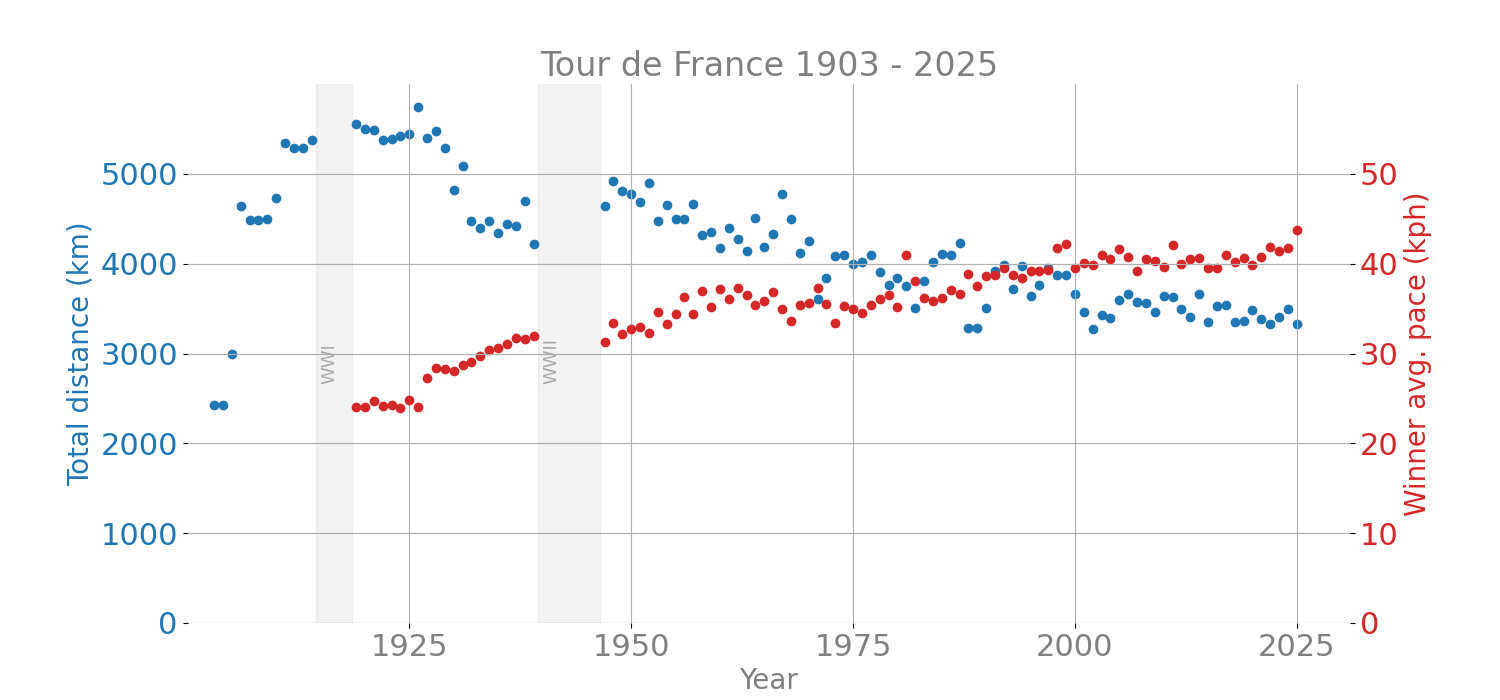
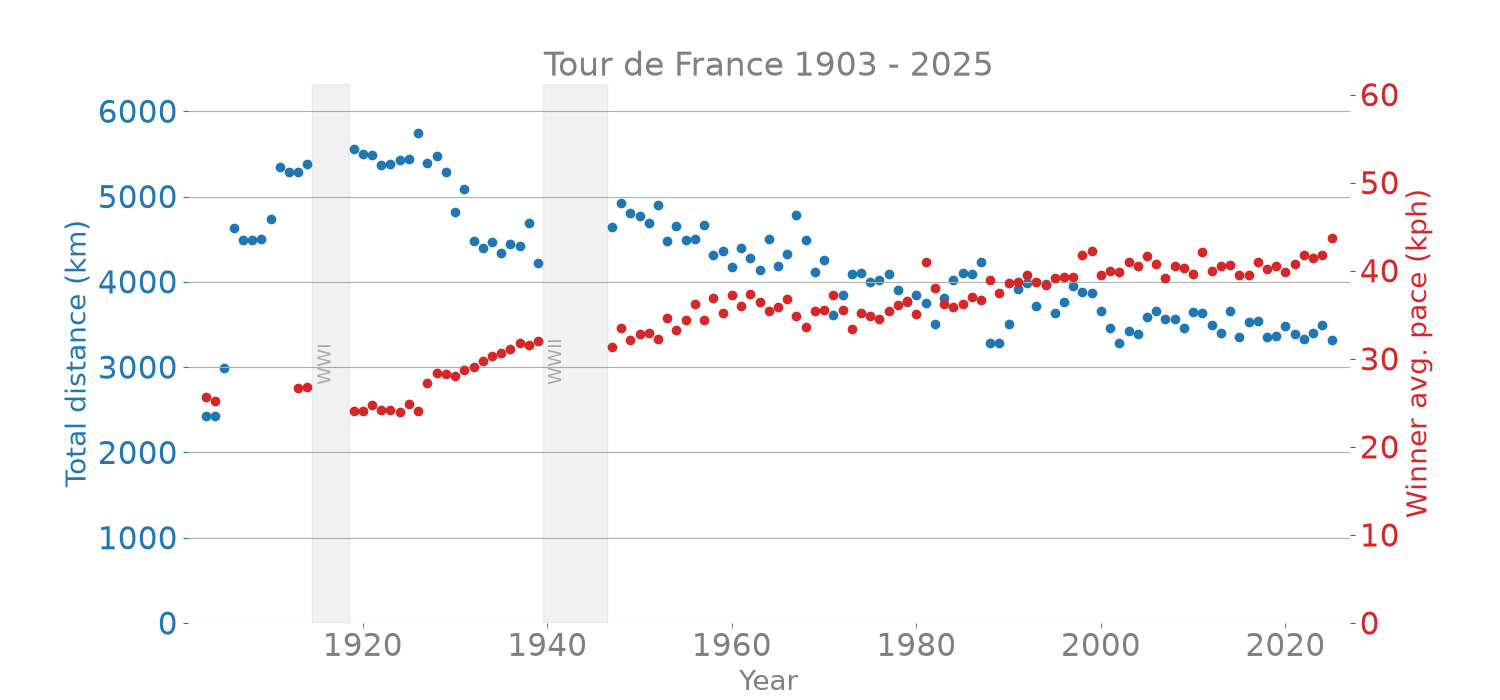
Fix Visualizer: correct women's title, robust series alignment, no inf paces
- The plot title, axis limits, and era shading were hardcoded for the
  men's race: the women's plot was titled 'Tour de France 1903 - ...'
  with 1900-2030 axis limits around four data points. Title and limits
  now derive from the data (generate_plots passes an explicit
  'Tour de France Femmes' title), and the WWI/WWII bands only render
  when they fall inside the plotted range.
- Winner pace was groupby().first() on a frame assumed pre-sorted,
  plotted against Year.unique() in appearance order — two orderings
  that only aligned by luck. Both series are now Year-indexed and
  plotted against their own index.
- Pace is masked where TotalSeconds <= 0 (points-era and no-result
  editions) instead of blanket-masking everything before 1915; the
  valid 1903-04 and 1913-14 paces now appear.
- No longer mutates the caller's dataframe or global rcParams; the
  figure is closed after saving; the stale 'data/...' default save
  path is gone (saveas is required). ty now passes on all of src/,
  so it is re-enabled in 'make lint'.
- Regenerated both PNGs (men's now includes 2025; women's now shows
  its real year range and the official 2025 pace).

diff --git a/src/letourdataset/visualizer.py b/src/letourdataset/visualizer.py
@@ -1,62 +1,86 @@
-import matplotlib
 import matplotlib.pyplot as plt
 import pandas as pd
 
+DISTANCE_COLOR = "tab:blue"
+PACE_COLOR = "tab:red"
+WAR_PERIODS = ((1914.5, 1918.5, "WWI"), (1939.5, 1946.5, "WWII"))
+
 
 class Visualizer:
-    def __init__(self) -> None:
-        pass
+    def plot(self, df: pd.DataFrame, saveas: str, title: str | None = None) -> None:
+        """Plot the total distance and the winner's average pace per year.
 
-    def plot(self, df: pd.DataFrame, saveas="data/TDF_Distance_And_Pace.png") -> None:
-        last_year = 2030
+        Args:
+            df: A riders-history dataframe (one row per rider and year).
+            saveas: Path of the PNG file to write.
+            title: Plot title; derived from the year range if omitted.
+        """
+        data = df.copy()
+        data["Rank"] = pd.to_numeric(data["Rank"], errors="coerce")
+        # Pace is undefined for editions without recorded times
+        # (ResultType 'points' / 'no-results' have TotalSeconds == 0).
+        data["PersonalAvgPace"] = (
+            data["Distance (km)"] / (data["TotalSeconds"] / 3600)
+        ).mask(data["TotalSeconds"] <= 0)
 
-        year = df["Year"].unique()
-        distance = df.groupby("Year")["Distance (km)"].mean(numeric_only=True).values
-        df["PersonalAvgPace"] = df["Distance (km)"] / (df["TotalSeconds"] / 3600)
-        df.loc[df["Year"] < 1915, "PersonalAvgPace"] = pd.NA
-        winnerpace = df.groupby("Year").first()["PersonalAvgPace"]
-
-        matplotlib.rcParams.update({"font.size": 22})
-        _, ax = plt.subplots(1, 1, figsize=(15, 7))
-        ax.scatter(year, distance)  # type:ignore
-
-        ax.set_title(
-            f"Tour de France 1903 - {df['Year'].max()}", fontsize=24, color="gray"
+        distance = data.groupby("Year")["Distance (km)"].mean().sort_index()
+        winners = (
+            data.dropna(subset=["Rank"])
+            .sort_values("Rank", kind="stable")
+            .groupby("Year")
+            .head(1)
         )
+        winner_pace = winners.set_index("Year")["PersonalAvgPace"].sort_index()
 
-        ax.set_xlabel("Year", fontsize=20, color="gray")
-        ax.set_xlim(1900, last_year + 1)
-        ax.set_xticks([1925, 1950, 1975, 2000, 2025])
-        ax.set_xticklabels([1925, 1950, 1975, 2000, 2025], color="gray")
+        year_min = int(distance.index.min())
+        year_max = int(distance.index.max())
+        if title is None:
+            title = f"Tour de France {year_min} - {year_max}"
 
-        ax.set_ylabel("Total distance (km)", fontsize=20, color="tab:blue")
-        ax.set_ylim(0, 6000)
-        ax.set_yticks([0, 1000, 2000, 3000, 4000, 5000])
-        ax.set_yticklabels([0, 1000, 2000, 3000, 4000, 5000], color="tab:blue")
+        pace_max = float(winner_pace.max()) * 1.4
+        distance_max = float(distance.max()) * 1.1
 
-        for where in ["top", "right", "bottom", "left"]:
-            ax.spines[where].set_visible(False)
-        ax.grid(True)
-        ax.grid(which="major", axis="y", linestyle="-")
+        with plt.rc_context({"font.size": 22}):
+            fig, ax = plt.subplots(1, 1, figsize=(15, 7))
+            ax.scatter(distance.index, distance.to_numpy(), color=DISTANCE_COLOR)
 
-        ax_twinx = ax.twinx()
-        ax_twinx.scatter(year, winnerpace, color="tab:red")
-        args = {"zorder": -1, "alpha": 0.1, "color": "grey"}
-        ax_twinx.fill_betweenx([00, 412], 1914.5, 1918.5, **args)
-        ax_twinx.fill_betweenx([00, 412], 1939.5, 1946.5, **args)
-        args = {"color": "darkgray", "fontsize": 13, "rotation": 90}
-        ax_twinx.text(1915, 27, "WWI", **args)
-        ax_twinx.text(1940, 27, "WWII", **args)
+            ax.set_title(title, fontsize=24, color="gray")
+            ax.set_xlabel("Year", fontsize=20, color="gray")
+            ax.set_xlim(year_min - 2, year_max + 2)
+            ax.tick_params(axis="x", colors="gray")
 
-        ax_twinx.set_xlim(1900, last_year + 1)
+            ax.set_ylabel("Total distance (km)", fontsize=20, color=DISTANCE_COLOR)
+            ax.set_ylim(0, distance_max)
+            ax.tick_params(axis="y", colors=DISTANCE_COLOR)
 
-        ax_twinx.set_ylabel("Winner avg. pace (kph)", fontsize=20, color="tab:red")
-        ax_twinx.set_ylim(0, 60)
-        ax_twinx.set_yticks([0, 10, 20, 30, 40, 50])
-        ax_twinx.set_yticklabels([0, 10, 20, 30, 40, 50], color="tab:red")
+            ax_twinx = ax.twinx()
+            ax_twinx.scatter(
+                winner_pace.index, winner_pace.to_numpy(), color=PACE_COLOR
+            )
+            for start, end, label in WAR_PERIODS:
+                if start < year_max and end > year_min:
+                    ax_twinx.axvspan(start, end, zorder=-1, alpha=0.1, color="grey")
+                    ax_twinx.text(
+                        start + 0.5,
+                        pace_max * 0.45,
+                        label,
+                        color="darkgray",
+                        fontsize=13,
+                        rotation=90,
+                    )
 
-        for where in ["top", "right", "bottom", "left"]:
-            ax_twinx.spines[where].set_visible(False)
+            ax_twinx.set_xlim(year_min - 2, year_max + 2)
+            ax_twinx.set_ylabel(
+                "Winner avg. pace (kph)", fontsize=20, color=PACE_COLOR
+            )
+            ax_twinx.set_ylim(0, pace_max)
+            ax_twinx.tick_params(axis="y", colors=PACE_COLOR)
 
-        ax_twinx.grid(which="major", axis="y", linestyle="-")
-        plt.savefig(saveas, dpi=100)
+            for axis in (ax, ax_twinx):
+                for side in ("top", "right", "bottom", "left"):
+                    axis.spines[side].set_visible(False)
+            # Only one y-grid; two would draw near-duplicate lines
+            ax.grid(which="major", axis="y", linestyle="-")
+
+            fig.savefig(saveas, dpi=100)
+            plt.close(fig)

diff --git a/scripts/generate_plots.py b/scripts/generate_plots.py
@@ -42,7 +42,12 @@ def main() -> None:
         print("Creating women's distance and pace plot...")
         df_women = pd.read_csv(women_riders_file)
         Visualizer().plot(
-            df_women, saveas=str(plots_folder / "TDFF_Distance_And_Pace.png")
+            df_women,
+            saveas=str(plots_folder / "TDFF_Distance_And_Pace.png"),
+            title=(
+                "Tour de France Femmes "
+                f"{df_women['Year'].min()} - {df_women['Year'].max()}"
+            ),
         )
     else:
         print(f"Warning: {women_riders_file} not found. Run 'make update' first.")
